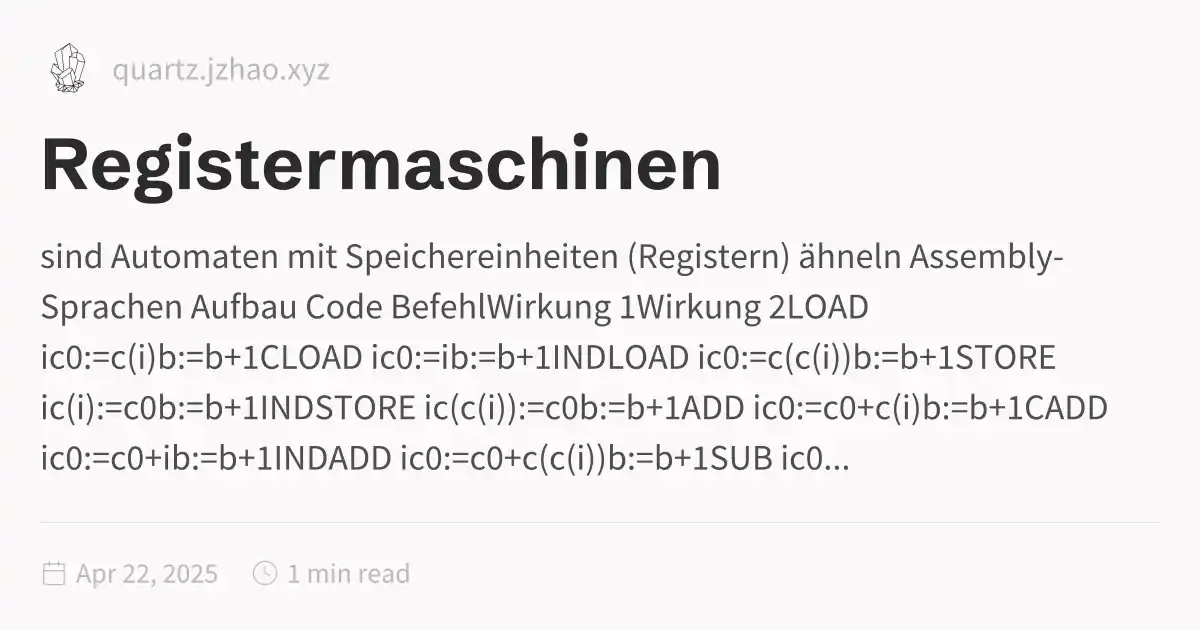
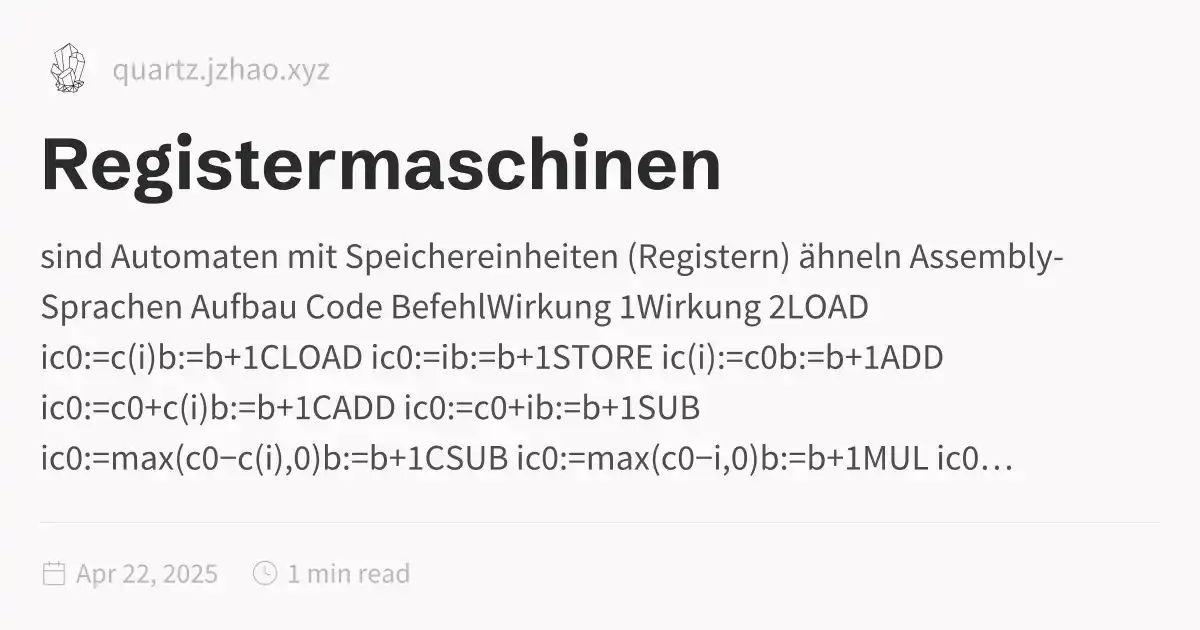
update

Changed region(s): [[0.0617, 0.5429, 0.925, 0.754]]

diff --git a/Themen.html b/Themen.html
@@ -116,7 +116,7 @@ pre:hover > .expand-button {
   padding: 0 12px;
   font-size: 14px;
 }
[2 lines of base64/hex data omitted]
 <h2 id="theoretische-informatik">Theoretische Informatik<a role="anchor" aria-hidden="true" tabindex="-1" data-no-popover="true" href="#theoretische-informatik" class="internal"><svg width="18" height="18" viewBox="0 0 24 24" fill="none" stroke="currentColor" stroke-width="2" stroke-linecap="round" stroke-linejoin="round"><path d="M10 13a5 5 0 0 0 7.54.54l3-3a5 5 0 0 0-7.07-7.07l-1.72 1.71"></path><path d="M14 11a5 5 0 0 0-7.54-.54l-3 3a5 5 0 0 0 7.07 7.07l1.71-1.71"></path></svg></a></h2>
 <ul>
 <li><a href="./Theoretische-Informatik/Registermaschinen" class="internal" data-slug="Theoretische-Informatik/Registermaschinen">Registermaschinen</a></li>
@@ -142,6 +142,11 @@ pre:hover > .expand-button {
 <ul>
 <li><a href="./Angewandte-Informatik/Kryptografie" class="internal" data-slug="Angewandte-Informatik/Kryptografie">Kryptografie</a></li>
 <li><a href="./Angewandte-Informatik/Datenbanken" class="internal" data-slug="Angewandte-Informatik/Datenbanken">Datenbanken</a></li>
+</ul>
+<h3 id="contributors">Contributors<a role="anchor" aria-hidden="true" tabindex="-1" data-no-popover="true" href="#contributors" class="internal"><svg width="18" height="18" viewBox="0 0 24 24" fill="none" stroke="currentColor" stroke-width="2" stroke-linecap="round" stroke-linejoin="round"><path d="M10 13a5 5 0 0 0 7.54.54l3-3a5 5 0 0 0-7.07-7.07l-1.72 1.71"></path><path d="M14 11a5 5 0 0 0-7.54-.54l-3 3a5 5 0 0 0 7.07 7.07l1.71-1.71"></path></svg></a></h3>
+<ul>
+<li>Alex (Content)</li>
+<li>Nils  (Bug-Reports)</li>
 </ul></article><hr/><div class="page-footer"></div></div><div class="right sidebar"><div class="graph"><h3>Graph View</h3><div class="graph-outer"><div class="graph-container" data-cfg="{&quot;drag&quot;:true,&quot;zoom&quot;:true,&quot;depth&quot;:1,&quot;scale&quot;:1.1,&quot;repelForce&quot;:0.5,&quot;centerForce&quot;:0.3,&quot;linkDistance&quot;:30,&quot;fontSize&quot;:0.6,&quot;opacityScale&quot;:1,&quot;showTags&quot;:true,&quot;removeTags&quot;:[],&quot;focusOnHover&quot;:false,&quot;enableRadial&quot;:false}"></div><button class="global-graph-icon" aria-label="Global Graph"><svg version="1.1" xmlns="http://www.w3.org/2000/svg" xmlns:xlink="http://www.w3.org/1999/xlink" x="0px" y="0px" viewBox="0 0 55 55" fill="currentColor" xml:space="preserve"><path d="M49,0c-3.309,0-6,2.691-6,6c0,1.035,0.263,2.009,0.726,2.86l-9.829,9.829C32.542,17.634,30.846,17,29,17
                 s-3.542,0.634-4.898,1.688l-7.669-7.669C16.785,10.424,17,9.74,17,9c0-2.206-1.794-4-4-4S9,6.794,9,9s1.794,4,4,4
                 c0.74,0,1.424-0.215,2.019-0.567l7.669,7.669C21.634,21.458,21,23.154,21,25s0.634,3.542,1.688,4.897L10.024,42.562
@@ -152,6 +157,6 @@ pre:hover > .expand-button {
                 C46.042,11.405,47.451,12,49,12c3.309,0,6-2.691,6-6S52.309,0,49,0z M11,9c0-1.103,0.897-2,2-2s2,0.897,2,2s-0.897,2-2,2
                 S11,10.103,11,9z M6,51c-2.206,0-4-1.794-4-4s1.794-4,4-4s4,1.794,4,4S8.206,51,6,51z M33,49c0,2.206-1.794,4-4,4s-4-1.794-4-4
                 s1.794-4,4-4S33,46.794,33,49z M29,31c-3.309,0-6-2.691-6-6s2.691-6,6-6s6,2.691,6,6S32.309,31,29,31z M47,41c0,1.103-0.897,2-2,2
-                s-2-0.897-2-2s0.897-2,2-2S47,39.897,47,41z M49,10c-2.206,0-4-1.794-4-4s1.794-4,4-4s4,1.794,4,4S51.206,10,49,10z"></path></svg></button></div><div class="global-graph-outer"><div class="global-graph-container" data-cfg="{&quot;drag&quot;:true,&quot;zoom&quot;:true,&quot;depth&quot;:-1,&quot;scale&quot;:0.9,&quot;repelForce&quot;:0.5,&quot;centerForce&quot;:0.2,&quot;linkDistance&quot;:30,&quot;fontSize&quot;:0.6,&quot;opacityScale&quot;:1,&quot;showTags&quot;:true,&quot;removeTags&quot;:[],&quot;focusOnHover&quot;:true,&quot;enableRadial&quot;:true}"></div></div></div><div class="toc desktop-only"><button type="button" class="toc-header" aria-controls="toc-content" aria-expanded="true"><h3>Table of Contents</h3><svg xmlns="http://www.w3.org/2000/svg" width="24" height="24" viewBox="0 0 24 24" fill="none" stroke="currentColor" stroke-width="2" stroke-linecap="round" stroke-linejoin="round" class="fold"><polyline points="6 9 12 15 18 9"></polyline></svg></button><ul class="toc-content overflow" id="list-1"><li class="depth-0"><a href="#theoretische-informatik" data-for="theoretische-informatik">Theoretische Informatik</a></li><li class="depth-0"><a href="#technische-informatik" data-for="technische-informatik">Technische Informatik</a></li><li class="depth-0"><a href="#praktische-informatik" data-for="praktische-informatik">Praktische Informatik</a></li><li class="depth-0"><a href="#angewandte-informatik" data-for="angewandte-informatik">Angewandte Informatik</a></li><li class="overflow-end"></li></ul></div></div><footer class><p>Created with <a href="https://quartz.jzhao.xyz/">Quartz v4.5.0</a> © 2025</p><ul><li><a href="https://github.com/jackyzha0/quartz">GitHub</a></li><li><a href="https://discord.gg/cRFFHYye7t">Discord Community</a></li></ul></footer></div></div></body><script type="application/javascript">function o(){let t=this.parentElement;t.classList.toggle("is-collapsed");let e=t.classList.contains("is-collapsed")?this.scrollHeight:t.scrollHeight;t.style.maxHeight=e+"px";let c=t,l=t.parentElement;for(;l;){if(!l.classList.contains("callout"))return;let i=l.classList.contains("is-collapsed")?l.scrollHeight:l.scrollHeight+c.scrollHeight;l.style.maxHeight=i+"px",c=l,l=l.parentElement}}function n(){let t=document.getElementsByClassName("callout is-collapsible");for(let s of t){let e=s.firstElementChild;if(!e)continue;e.addEventListener("click",o),window.addCleanup(()=>e.removeEventListener("click",o));let l=s.classList.contains("is-collapsed")?e.scrollHeight:s.scrollHeight;s.style.maxHeight=l+"px"}}document.addEventListener("nav",n);
+                s-2-0.897-2-2s0.897-2,2-2S47,39.897,47,41z M49,10c-2.206,0-4-1.794-4-4s1.794-4,4-4s4,1.794,4,4S51.206,10,49,10z"></path></svg></button></div><div class="global-graph-outer"><div class="global-graph-container" data-cfg="{&quot;drag&quot;:true,&quot;zoom&quot;:true,&quot;depth&quot;:-1,&quot;scale&quot;:0.9,&quot;repelForce&quot;:0.5,&quot;centerForce&quot;:0.2,&quot;linkDistance&quot;:30,&quot;fontSize&quot;:0.6,&quot;opacityScale&quot;:1,&quot;showTags&quot;:true,&quot;removeTags&quot;:[],&quot;focusOnHover&quot;:true,&quot;enableRadial&quot;:true}"></div></div></div><div class="toc desktop-only"><button type="button" class="toc-header" aria-controls="toc-content" aria-expanded="true"><h3>Table of Contents</h3><svg xmlns="http://www.w3.org/2000/svg" width="24" height="24" viewBox="0 0 24 24" fill="none" stroke="currentColor" stroke-width="2" stroke-linecap="round" stroke-linejoin="round" class="fold"><polyline points="6 9 12 15 18 9"></polyline></svg></button><ul class="toc-content overflow" id="list-1"><li class="depth-0"><a href="#theoretische-informatik" data-for="theoretische-informatik">Theoretische Informatik</a></li><li class="depth-0"><a href="#technische-informatik" data-for="technische-informatik">Technische Informatik</a></li><li class="depth-0"><a href="#praktische-informatik" data-for="praktische-informatik">Praktische Informatik</a></li><li class="depth-0"><a href="#angewandte-informatik" data-for="angewandte-informatik">Angewandte Informatik</a></li><li class="depth-1"><a href="#contributors" data-for="contributors">Contributors</a></li><li class="overflow-end"></li></ul></div></div><footer class><p>Created with <a href="https://quartz.jzhao.xyz/">Quartz v4.5.0</a> © 2025</p><ul><li><a href="https://github.com/jackyzha0/quartz">GitHub</a></li><li><a href="https://discord.gg/cRFFHYye7t">Discord Community</a></li></ul></footer></div></div></body><script type="application/javascript">function o(){let t=this.parentElement;t.classList.toggle("is-collapsed");let e=t.classList.contains("is-collapsed")?this.scrollHeight:t.scrollHeight;t.style.maxHeight=e+"px";let c=t,l=t.parentElement;for(;l;){if(!l.classList.contains("callout"))return;let i=l.classList.contains("is-collapsed")?l.scrollHeight:l.scrollHeight+c.scrollHeight;l.style.maxHeight=i+"px",c=l,l=l.parentElement}}function n(){let t=document.getElementsByClassName("callout is-collapsible");for(let s of t){let e=s.firstElementChild;if(!e)continue;e.addEventListener("click",o),window.addCleanup(()=>e.removeEventListener("click",o));let l=s.classList.contains("is-collapsed")?e.scrollHeight:s.scrollHeight;s.style.maxHeight=l+"px"}}document.addEventListener("nav",n);
 </script><script type="module">function f(i,e){if(!i)return;function r(o){o.target===this&&(o.preventDefault(),o.stopPropagation(),e())}function t(o){o.key.startsWith("Esc")&&(o.preventDefault(),e())}i?.addEventListener("click",r),window.addCleanup(()=>i?.removeEventListener("click",r)),document.addEventListener("keydown",t),window.addCleanup(()=>document.removeEventListener("keydown",t))}function y(i){for(;i.firstChild;)i.removeChild(i.firstChild)}var h=class{constructor(e,r){this.container=e;this.content=r;this.setupEventListeners(),this.setupNavigationControls(),this.resetTransform()}isDragging=!1;startPan={x:0,y:0};currentPan={x:0,y:0};scale=1;MIN_SCALE=.5;MAX_SCALE=3;cleanups=[];setupEventListeners(){let e=this.onMouseDown.bind(this),r=this.onMouseMove.bind(this),t=this.onMouseUp.bind(this),o=this.resetTransform.bind(this);this.container.addEventListener("mousedown",e),document.addEventListener("mousemove",r),document.addEventListener("mouseup",t),window.addEventListener("resize",o),this.cleanups.push(()=>this.container.removeEventListener("mousedown",e),()=>document.removeEventListener("mousemove",r),()=>document.removeEventListener("mouseup",t),()=>window.removeEventListener("resize",o))}cleanup(){for(let e of this.cleanups)e()}setupNavigationControls(){let e=document.createElement("div");e.className="mermaid-controls";let r=this.createButton("+",()=>this.zoom(.1)),t=this.createButton("-",()=>this.zoom(-.1)),o=this.createButton("Reset",()=>this.resetTransform());e.appendChild(t),e.appendChild(o),e.appendChild(r),this.container.appendChild(e)}createButton(e,r){let t=document.createElement("button");return t.textContent=e,t.className="mermaid-control-button",t.addEventListener("click",r),window.addCleanup(()=>t.removeEventListener("click",r)),t}onMouseDown(e){e.button===0&&(this.isDragging=!0,this.startPan={x:e.clientX-this.currentPan.x,y:e.clientY-this.currentPan.y},this.container.style.cursor="grabbing")}onMouseMove(e){this.isDragging&&(e.preventDefault(),this.currentPan={x:e.clientX-this.startPan.x,y:e.clientY-this.startPan.y},this.updateTransform())}onMouseUp(){this.isDragging=!1,this.container.style.cursor="grab"}zoom(e){let r=Math.min(Math.max(this.scale+e,this.MIN_SCALE),this.MAX_SCALE),t=this.content.getBoundingClientRect(),o=t.width/2,n=t.height/2,c=r-this.scale;this.currentPan.x-=o*c,this.currentPan.y-=n*c,this.scale=r,this.updateTransform()}updateTransform(){this.content.style.transform=`translate(${this.currentPan.x}px, ${this.currentPan.y}px) scale(${this.scale})`}resetTransform(){this.scale=1;let e=this.content.querySelector("svg");this.currentPan={x:e.getBoundingClientRect().width/2,y:e.getBoundingClientRect().height/2},this.updateTransform()}},C=["--secondary","--tertiary","--gray","--light","--lightgray","--highlight","--dark","--darkgray","--codeFont"],E;document.addEventListener("nav",async()=>{let e=document.querySelector(".center").querySelectorAll("code.mermaid");if(e.length===0)return;E||=await import("https://cdnjs.cloudflare.com/ajax/libs/mermaid/11.4.0/mermaid.esm.min.mjs");let r=E.default,t=new WeakMap;for(let n of e)t.set(n,n.innerText);async function o(){for(let s of e){s.removeAttribute("data-processed");let a=t.get(s);a&&(s.innerHTML=a)}let n=C.reduce((s,a)=>(s[a]=window.getComputedStyle(document.documentElement).getPropertyValue(a),s),{}),c=document.documentElement.getAttribute("saved-theme")==="dark";r.initialize({startOnLoad:!1,securityLevel:"loose",theme:c?"dark":"base",themeVariables:{fontFamily:n["--codeFont"],primaryColor:n["--light"],primaryTextColor:n["--darkgray"],primaryBorderColor:n["--tertiary"],lineColor:n["--darkgray"],secondaryColor:n["--secondary"],tertiaryColor:n["--tertiary"],clusterBkg:n["--light"],edgeLabelBackground:n["--highlight"]}}),await r.run({nodes:e})}await o(),document.addEventListener("themechange",o),window.addCleanup(()=>document.removeEventListener("themechange",o));for(let n=0;n<e.length;n++){let v=function(){let g=l.querySelector("#mermaid-space"),m=l.querySelector(".mermaid-content");if(!m)return;y(m);let w=c.querySelector("svg").cloneNode(!0);m.appendChild(w),l.classList.add("active"),g.style.cursor="grab",u=new h(g,m)},M=function(){l.classList.remove("active"),u?.cleanup(),u=null},c=e[n],s=c.parentElement,a=s.querySelector(".clipboard-button"),d=s.querySelector(".expand-button"),p=window.getComputedStyle(a),L=a.offsetWidth+parseFloat(p.marginLeft||"0")+parseFloat(p.marginRight||"0");d.style.right=`calc(${L}px + 0.3rem)`,s.prepend(d);let l=s.querySelector("#mermaid-container");if(!l)return;let u=null;d.addEventListener("click",v),f(l,M),window.addCleanup(()=>{u?.cleanup(),d.removeEventListener("click",v)})}});
 </script><script src="https://cdn.jsdelivr.net/npm/katex@0.16.11/dist/contrib/copy-tex.min.js" type="application/javascript"></script><script src="./postscript.js" type="module"></script></html>

diff --git a/index.html b/index.html
@@ -116,7 +116,7 @@ pre:hover > .expand-button {
   padding: 0 12px;
   font-size: 14px;
 }
[2 lines of base64/hex data omitted]
 <h2 id="theoretische-informatik">Theoretische Informatik<a role="anchor" aria-hidden="true" tabindex="-1" data-no-popover="true" href="#theoretische-informatik" class="internal"><svg width="18" height="18" viewBox="0 0 24 24" fill="none" stroke="currentColor" stroke-width="2" stroke-linecap="round" stroke-linejoin="round"><path d="M10 13a5 5 0 0 0 7.54.54l3-3a5 5 0 0 0-7.07-7.07l-1.72 1.71"></path><path d="M14 11a5 5 0 0 0-7.54-.54l-3 3a5 5 0 0 0 7.07 7.07l1.71-1.71"></path></svg></a></h2>
 <ul>
 <li><a href="./Theoretische-Informatik/Registermaschinen" class="internal" data-slug="Theoretische-Informatik/Registermaschinen">Registermaschinen</a></li>
@@ -142,6 +142,11 @@ pre:hover > .expand-button {
 <ul>
 <li><a href="./Angewandte-Informatik/Kryptografie" class="internal" data-slug="Angewandte-Informatik/Kryptografie">Kryptografie</a></li>
 <li><a href="./Angewandte-Informatik/Datenbanken" class="internal" data-slug="Angewandte-Informatik/Datenbanken">Datenbanken</a></li>
+</ul>
+<h3 id="contributors">Contributors<a role="anchor" aria-hidden="true" tabindex="-1" data-no-popover="true" href="#contributors" class="internal"><svg width="18" height="18" viewBox="0 0 24 24" fill="none" stroke="currentColor" stroke-width="2" stroke-linecap="round" stroke-linejoin="round"><path d="M10 13a5 5 0 0 0 7.54.54l3-3a5 5 0 0 0-7.07-7.07l-1.72 1.71"></path><path d="M14 11a5 5 0 0 0-7.54-.54l-3 3a5 5 0 0 0 7.07 7.07l1.71-1.71"></path></svg></a></h3>
+<ul>
+<li>Alex (Content)</li>
+<li>Nils  (Bug-Reports)</li>
 </ul></article><hr/><div class="page-footer"></div></div><div class="right sidebar"><div class="graph"><h3>Graph View</h3><div class="graph-outer"><div class="graph-container" data-cfg="{&quot;drag&quot;:true,&quot;zoom&quot;:true,&quot;depth&quot;:1,&quot;scale&quot;:1.1,&quot;repelForce&quot;:0.5,&quot;centerForce&quot;:0.3,&quot;linkDistance&quot;:30,&quot;fontSize&quot;:0.6,&quot;opacityScale&quot;:1,&quot;showTags&quot;:true,&quot;removeTags&quot;:[],&quot;focusOnHover&quot;:false,&quot;enableRadial&quot;:false}"></div><button class="global-graph-icon" aria-label="Global Graph"><svg version="1.1" xmlns="http://www.w3.org/2000/svg" xmlns:xlink="http://www.w3.org/1999/xlink" x="0px" y="0px" viewBox="0 0 55 55" fill="currentColor" xml:space="preserve"><path d="M49,0c-3.309,0-6,2.691-6,6c0,1.035,0.263,2.009,0.726,2.86l-9.829,9.829C32.542,17.634,30.846,17,29,17
                 s-3.542,0.634-4.898,1.688l-7.669-7.669C16.785,10.424,17,9.74,17,9c0-2.206-1.794-4-4-4S9,6.794,9,9s1.794,4,4,4
                 c0.74,0,1.424-0.215,2.019-0.567l7.669,7.669C21.634,21.458,21,23.154,21,25s0.634,3.542,1.688,4.897L10.024,42.562
@@ -152,6 +157,6 @@ pre:hover > .expand-button {
                 C46.042,11.405,47.451,12,49,12c3.309,0,6-2.691,6-6S52.309,0,49,0z M11,9c0-1.103,0.897-2,2-2s2,0.897,2,2s-0.897,2-2,2
                 S11,10.103,11,9z M6,51c-2.206,0-4-1.794-4-4s1.794-4,4-4s4,1.794,4,4S8.206,51,6,51z M33,49c0,2.206-1.794,4-4,4s-4-1.794-4-4
                 s1.794-4,4-4S33,46.794,33,49z M29,31c-3.309,0-6-2.691-6-6s2.691-6,6-6s6,2.691,6,6S32.309,31,29,31z M47,41c0,1.103-0.897,2-2,2
-                s-2-0.897-2-2s0.897-2,2-2S47,39.897,47,41z M49,10c-2.206,0-4-1.794-4-4s1.794-4,4-4s4,1.794,4,4S51.206,10,49,10z"></path></svg></button></div><div class="global-graph-outer"><div class="global-graph-container" data-cfg="{&quot;drag&quot;:true,&quot;zoom&quot;:true,&quot;depth&quot;:-1,&quot;scale&quot;:0.9,&quot;repelForce&quot;:0.5,&quot;centerForce&quot;:0.2,&quot;linkDistance&quot;:30,&quot;fontSize&quot;:0.6,&quot;opacityScale&quot;:1,&quot;showTags&quot;:true,&quot;removeTags&quot;:[],&quot;focusOnHover&quot;:true,&quot;enableRadial&quot;:true}"></div></div></div><div class="toc desktop-only"><button type="button" class="toc-header" aria-controls="toc-content" aria-expanded="true"><h3>Table of Contents</h3><svg xmlns="http://www.w3.org/2000/svg" width="24" height="24" viewBox="0 0 24 24" fill="none" stroke="currentColor" stroke-width="2" stroke-linecap="round" stroke-linejoin="round" class="fold"><polyline points="6 9 12 15 18 9"></polyline></svg></button><ul class="toc-content overflow" id="list-1"><li class="depth-0"><a href="#theoretische-informatik" data-for="theoretische-informatik">Theoretische Informatik</a></li><li class="depth-0"><a href="#technische-informatik" data-for="technische-informatik">Technische Informatik</a></li><li class="depth-0"><a href="#praktische-informatik" data-for="praktische-informatik">Praktische Informatik</a></li><li class="depth-0"><a href="#angewandte-informatik" data-for="angewandte-informatik">Angewandte Informatik</a></li><li class="overflow-end"></li></ul></div></div><footer class><p>Created with <a href="https://quartz.jzhao.xyz/">Quartz v4.5.0</a> © 2025</p><ul><li><a href="https://github.com/jackyzha0/quartz">GitHub</a></li><li><a href="https://discord.gg/cRFFHYye7t">Discord Community</a></li></ul></footer></div></div></body><script type="application/javascript">function o(){let t=this.parentElement;t.classList.toggle("is-collapsed");let e=t.classList.contains("is-collapsed")?this.scrollHeight:t.scrollHeight;t.style.maxHeight=e+"px";let c=t,l=t.parentElement;for(;l;){if(!l.classList.contains("callout"))return;let i=l.classList.contains("is-collapsed")?l.scrollHeight:l.scrollHeight+c.scrollHeight;l.style.maxHeight=i+"px",c=l,l=l.parentElement}}function n(){let t=document.getElementsByClassName("callout is-collapsible");for(let s of t){let e=s.firstElementChild;if(!e)continue;e.addEventListener("click",o),window.addCleanup(()=>e.removeEventListener("click",o));let l=s.classList.contains("is-collapsed")?e.scrollHeight:s.scrollHeight;s.style.maxHeight=l+"px"}}document.addEventListener("nav",n);
+                s-2-0.897-2-2s0.897-2,2-2S47,39.897,47,41z M49,10c-2.206,0-4-1.794-4-4s1.794-4,4-4s4,1.794,4,4S51.206,10,49,10z"></path></svg></button></div><div class="global-graph-outer"><div class="global-graph-container" data-cfg="{&quot;drag&quot;:true,&quot;zoom&quot;:true,&quot;depth&quot;:-1,&quot;scale&quot;:0.9,&quot;repelForce&quot;:0.5,&quot;centerForce&quot;:0.2,&quot;linkDistance&quot;:30,&quot;fontSize&quot;:0.6,&quot;opacityScale&quot;:1,&quot;showTags&quot;:true,&quot;removeTags&quot;:[],&quot;focusOnHover&quot;:true,&quot;enableRadial&quot;:true}"></div></div></div><div class="toc desktop-only"><button type="button" class="toc-header" aria-controls="toc-content" aria-expanded="true"><h3>Table of Contents</h3><svg xmlns="http://www.w3.org/2000/svg" width="24" height="24" viewBox="0 0 24 24" fill="none" stroke="currentColor" stroke-width="2" stroke-linecap="round" stroke-linejoin="round" class="fold"><polyline points="6 9 12 15 18 9"></polyline></svg></button><ul class="toc-content overflow" id="list-1"><li class="depth-0"><a href="#theoretische-informatik" data-for="theoretische-informatik">Theoretische Informatik</a></li><li class="depth-0"><a href="#technische-informatik" data-for="technische-informatik">Technische Informatik</a></li><li class="depth-0"><a href="#praktische-informatik" data-for="praktische-informatik">Praktische Informatik</a></li><li class="depth-0"><a href="#angewandte-informatik" data-for="angewandte-informatik">Angewandte Informatik</a></li><li class="depth-1"><a href="#contributors" data-for="contributors">Contributors</a></li><li class="overflow-end"></li></ul></div></div><footer class><p>Created with <a href="https://quartz.jzhao.xyz/">Quartz v4.5.0</a> © 2025</p><ul><li><a href="https://github.com/jackyzha0/quartz">GitHub</a></li><li><a href="https://discord.gg/cRFFHYye7t">Discord Community</a></li></ul></footer></div></div></body><script type="application/javascript">function o(){let t=this.parentElement;t.classList.toggle("is-collapsed");let e=t.classList.contains("is-collapsed")?this.scrollHeight:t.scrollHeight;t.style.maxHeight=e+"px";let c=t,l=t.parentElement;for(;l;){if(!l.classList.contains("callout"))return;let i=l.classList.contains("is-collapsed")?l.scrollHeight:l.scrollHeight+c.scrollHeight;l.style.maxHeight=i+"px",c=l,l=l.parentElement}}function n(){let t=document.getElementsByClassName("callout is-collapsible");for(let s of t){let e=s.firstElementChild;if(!e)continue;e.addEventListener("click",o),window.addCleanup(()=>e.removeEventListener("click",o));let l=s.classList.contains("is-collapsed")?e.scrollHeight:s.scrollHeight;s.style.maxHeight=l+"px"}}document.addEventListener("nav",n);
 </script><script type="module">function f(i,e){if(!i)return;function r(o){o.target===this&&(o.preventDefault(),o.stopPropagation(),e())}function t(o){o.key.startsWith("Esc")&&(o.preventDefault(),e())}i?.addEventListener("click",r),window.addCleanup(()=>i?.removeEventListener("click",r)),document.addEventListener("keydown",t),window.addCleanup(()=>document.removeEventListener("keydown",t))}function y(i){for(;i.firstChild;)i.removeChild(i.firstChild)}var h=class{constructor(e,r){this.container=e;this.content=r;this.setupEventListeners(),this.setupNavigationControls(),this.resetTransform()}isDragging=!1;startPan={x:0,y:0};currentPan={x:0,y:0};scale=1;MIN_SCALE=.5;MAX_SCALE=3;cleanups=[];setupEventListeners(){let e=this.onMouseDown.bind(this),r=this.onMouseMove.bind(this),t=this.onMouseUp.bind(this),o=this.resetTransform.bind(this);this.container.addEventListener("mousedown",e),document.addEventListener("mousemove",r),document.addEventListener("mouseup",t),window.addEventListener("resize",o),this.cleanups.push(()=>this.container.removeEventListener("mousedown",e),()=>document.removeEventListener("mousemove",r),()=>document.removeEventListener("mouseup",t),()=>window.removeEventListener("resize",o))}cleanup(){for(let e of this.cleanups)e()}setupNavigationControls(){let e=document.createElement("div");e.className="mermaid-controls";let r=this.createButton("+",()=>this.zoom(.1)),t=this.createButton("-",()=>this.zoom(-.1)),o=this.createButton("Reset",()=>this.resetTransform());e.appendChild(t),e.appendChild(o),e.appendChild(r),this.container.appendChild(e)}createButton(e,r){let t=document.createElement("button");return t.textContent=e,t.className="mermaid-control-button",t.addEventListener("click",r),window.addCleanup(()=>t.removeEventListener("click",r)),t}onMouseDown(e){e.button===0&&(this.isDragging=!0,this.startPan={x:e.clientX-this.currentPan.x,y:e.clientY-this.currentPan.y},this.container.style.cursor="grabbing")}onMouseMove(e){this.isDragging&&(e.preventDefault(),this.currentPan={x:e.clientX-this.startPan.x,y:e.clientY-this.startPan.y},this.updateTransform())}onMouseUp(){this.isDragging=!1,this.container.style.cursor="grab"}zoom(e){let r=Math.min(Math.max(this.scale+e,this.MIN_SCALE),this.MAX_SCALE),t=this.content.getBoundingClientRect(),o=t.width/2,n=t.height/2,c=r-this.scale;this.currentPan.x-=o*c,this.currentPan.y-=n*c,this.scale=r,this.updateTransform()}updateTransform(){this.content.style.transform=`translate(${this.currentPan.x}px, ${this.currentPan.y}px) scale(${this.scale})`}resetTransform(){this.scale=1;let e=this.content.querySelector("svg");this.currentPan={x:e.getBoundingClientRect().width/2,y:e.getBoundingClientRect().height/2},this.updateTransform()}},C=["--secondary","--tertiary","--gray","--light","--lightgray","--highlight","--dark","--darkgray","--codeFont"],E;document.addEventListener("nav",async()=>{let e=document.querySelector(".center").querySelectorAll("code.mermaid");if(e.length===0)return;E||=await import("https://cdnjs.cloudflare.com/ajax/libs/mermaid/11.4.0/mermaid.esm.min.mjs");let r=E.default,t=new WeakMap;for(let n of e)t.set(n,n.innerText);async function o(){for(let s of e){s.removeAttribute("data-processed");let a=t.get(s);a&&(s.innerHTML=a)}let n=C.reduce((s,a)=>(s[a]=window.getComputedStyle(document.documentElement).getPropertyValue(a),s),{}),c=document.documentElement.getAttribute("saved-theme")==="dark";r.initialize({startOnLoad:!1,securityLevel:"loose",theme:c?"dark":"base",themeVariables:{fontFamily:n["--codeFont"],primaryColor:n["--light"],primaryTextColor:n["--darkgray"],primaryBorderColor:n["--tertiary"],lineColor:n["--darkgray"],secondaryColor:n["--secondary"],tertiaryColor:n["--tertiary"],clusterBkg:n["--light"],edgeLabelBackground:n["--highlight"]}}),await r.run({nodes:e})}await o(),document.addEventListener("themechange",o),window.addCleanup(()=>document.removeEventListener("themechange",o));for(let n=0;n<e.length;n++){let v=function(){let g=l.querySelector("#mermaid-space"),m=l.querySelector(".mermaid-content");if(!m)return;y(m);let w=c.querySelector("svg").cloneNode(!0);m.appendChild(w),l.classList.add("active"),g.style.cursor="grab",u=new h(g,m)},M=function(){l.classList.remove("active"),u?.cleanup(),u=null},c=e[n],s=c.parentElement,a=s.querySelector(".clipboard-button"),d=s.querySelector(".expand-button"),p=window.getComputedStyle(a),L=a.offsetWidth+parseFloat(p.marginLeft||"0")+parseFloat(p.marginRight||"0");d.style.right=`calc(${L}px + 0.3rem)`,s.prepend(d);let l=s.querySelector("#mermaid-container");if(!l)return;let u=null;d.addEventListener("click",v),f(l,M),window.addCleanup(()=>{u?.cleanup(),d.removeEventListener("click",v)})}});
 </script><script src="https://cdn.jsdelivr.net/npm/katex@0.16.11/dist/contrib/copy-tex.min.js" type="application/javascript"></script><script src="./postscript.js" type="module"></script></html>

diff --git a/Theoretische-Informatik/index.html b/Theoretische-Informatik/index.html
@@ -116,6 +116,6 @@ pre:hover > .expand-button {
   padding: 0 12px;
   font-size: 14px;
 }
[2 lines of base64/hex data omitted]
 </script><script type="module">function f(i,e){if(!i)return;function r(o){o.target===this&&(o.preventDefault(),o.stopPropagation(),e())}function t(o){o.key.startsWith("Esc")&&(o.preventDefault(),e())}i?.addEventListener("click",r),window.addCleanup(()=>i?.removeEventListener("click",r)),document.addEventListener("keydown",t),window.addCleanup(()=>document.removeEventListener("keydown",t))}function y(i){for(;i.firstChild;)i.removeChild(i.firstChild)}var h=class{constructor(e,r){this.container=e;this.content=r;this.setupEventListeners(),this.setupNavigationControls(),this.resetTransform()}isDragging=!1;startPan={x:0,y:0};currentPan={x:0,y:0};scale=1;MIN_SCALE=.5;MAX_SCALE=3;cleanups=[];setupEventListeners(){let e=this.onMouseDown.bind(this),r=this.onMouseMove.bind(this),t=this.onMouseUp.bind(this),o=this.resetTransform.bind(this);this.container.addEventListener("mousedown",e),document.addEventListener("mousemove",r),document.addEventListener("mouseup",t),window.addEventListener("resize",o),this.cleanups.push(()=>this.container.removeEventListener("mousedown",e),()=>document.removeEventListener("mousemove",r),()=>document.removeEventListener("mouseup",t),()=>window.removeEventListener("resize",o))}cleanup(){for(let e of this.cleanups)e()}setupNavigationControls(){let e=document.createElement("div");e.className="mermaid-controls";let r=this.createButton("+",()=>this.zoom(.1)),t=this.createButton("-",()=>this.zoom(-.1)),o=this.createButton("Reset",()=>this.resetTransform());e.appendChild(t),e.appendChild(o),e.appendChild(r),this.container.appendChild(e)}createButton(e,r){let t=document.createElement("button");return t.textContent=e,t.className="mermaid-control-button",t.addEventListener("click",r),window.addCleanup(()=>t.removeEventListener("click",r)),t}onMouseDown(e){e.button===0&&(this.isDragging=!0,this.startPan={x:e.clientX-this.currentPan.x,y:e.clientY-this.currentPan.y},this.container.style.cursor="grabbing")}onMouseMove(e){this.isDragging&&(e.preventDefault(),this.currentPan={x:e.clientX-this.startPan.x,y:e.clientY-this.startPan.y},this.updateTransform())}onMouseUp(){this.isDragging=!1,this.container.style.cursor="grab"}zoom(e){let r=Math.min(Math.max(this.scale+e,this.MIN_SCALE),this.MAX_SCALE),t=this.content.getBoundingClientRect(),o=t.width/2,n=t.height/2,c=r-this.scale;this.currentPan.x-=o*c,this.currentPan.y-=n*c,this.scale=r,this.updateTransform()}updateTransform(){this.content.style.transform=`translate(${this.currentPan.x}px, ${this.currentPan.y}px) scale(${this.scale})`}resetTransform(){this.scale=1;let e=this.content.querySelector("svg");this.currentPan={x:e.getBoundingClientRect().width/2,y:e.getBoundingClientRect().height/2},this.updateTransform()}},C=["--secondary","--tertiary","--gray","--light","--lightgray","--highlight","--dark","--darkgray","--codeFont"],E;document.addEventListener("nav",async()=>{let e=document.querySelector(".center").querySelectorAll("code.mermaid");if(e.length===0)return;E||=await import("https://cdnjs.cloudflare.com/ajax/libs/mermaid/11.4.0/mermaid.esm.min.mjs");let r=E.default,t=new WeakMap;for(let n of e)t.set(n,n.innerText);async function o(){for(let s of e){s.removeAttribute("data-processed");let a=t.get(s);a&&(s.innerHTML=a)}let n=C.reduce((s,a)=>(s[a]=window.getComputedStyle(document.documentElement).getPropertyValue(a),s),{}),c=document.documentElement.getAttribute("saved-theme")==="dark";r.initialize({startOnLoad:!1,securityLevel:"loose",theme:c?"dark":"base",themeVariables:{fontFamily:n["--codeFont"],primaryColor:n["--light"],primaryTextColor:n["--darkgray"],primaryBorderColor:n["--tertiary"],lineColor:n["--darkgray"],secondaryColor:n["--secondary"],tertiaryColor:n["--tertiary"],clusterBkg:n["--light"],edgeLabelBackground:n["--highlight"]}}),await r.run({nodes:e})}await o(),document.addEventListener("themechange",o),window.addCleanup(()=>document.removeEventListener("themechange",o));for(let n=0;n<e.length;n++){let v=function(){let g=l.querySelector("#mermaid-space"),m=l.querySelector(".mermaid-content");if(!m)return;y(m);let w=c.querySelector("svg").cloneNode(!0);m.appendChild(w),l.classList.add("active"),g.style.cursor="grab",u=new h(g,m)},M=function(){l.classList.remove("active"),u?.cleanup(),u=null},c=e[n],s=c.parentElement,a=s.querySelector(".clipboard-button"),d=s.querySelector(".expand-button"),p=window.getComputedStyle(a),L=a.offsetWidth+parseFloat(p.marginLeft||"0")+parseFloat(p.marginRight||"0");d.style.right=`calc(${L}px + 0.3rem)`,s.prepend(d);let l=s.querySelector("#mermaid-container");if(!l)return;let u=null;d.addEventListener("click",v),f(l,M),window.addCleanup(()=>{u?.cleanup(),d.removeEventListener("click",v)})}});
 </script><script src="https://cdn.jsdelivr.net/npm/katex@0.16.11/dist/contrib/copy-tex.min.js" type="application/javascript"></script><script src="../postscript.js" type="module"></script></html>

diff --git a/Theoretische-Informatik/Registermaschinen.html b/Theoretische-Informatik/Registermaschinen.html
@@ -1,5 +1,5 @@
 <!DOCTYPE html>
-<html lang="en"><head><title>Registermaschinen</title><meta charset="utf-8"/><link rel="preconnect" href="https://fonts.googleapis.com"/><link rel="preconnect" href="https://fonts.gstatic.com"/><link rel="stylesheet" href="https://fonts.googleapis.com/css2?family=Schibsted Grotesk:wght@400;700&amp;family=Source Sans Pro:ital,wght@0,400;0,600;1,400;1,600&amp;family=IBM Plex Mono:wght@400;600&amp;display=swap"/><link rel="preconnect" href="https://cdnjs.cloudflare.com" crossorigin="anonymous"/><meta name="viewport" content="width=device-width, initial-scale=1.0"/><meta name="og:site_name" content="Quartz 4"/><meta property="og:title" content="Registermaschinen"/><meta property="og:type" content="website"/><meta name="twitter:card" content="summary_large_image"/><meta name="twitter:title" content="Registermaschinen"/><meta name="twitter:description" content="sind Automaten mit Speichereinheiten (Registern) ähneln Assembly-Sprachen Aufbau Code BefehlWirkung 1Wirkung 2LOAD ic0:=c(i)b:=b+1CLOAD ic0:=ib:=b+1INDLOAD ic0:=c(c(i))b:=b+1STORE ic(i):=c0b:=b+1INDSTORE ic(c(i)):=c0b:=b+1ADD ic0:=c0+c(i)b:=b+1CADD ic0:=c0+ib:=b+1INDADD ic0:=c0+c(c(i))b:=b+1SUB ic0..."/><meta property="og:description" content="sind Automaten mit Speichereinheiten (Registern) ähneln Assembly-Sprachen Aufbau Code BefehlWirkung 1Wirkung 2LOAD ic0:=c(i)b:=b+1CLOAD ic0:=ib:=b+1INDLOAD ic0:=c(c(i))b:=b+1STORE ic(i):=c0b:=b+1INDSTORE ic(c(i)):=c0b:=b+1ADD ic0:=c0+c(i)b:=b+1CADD ic0:=c0+ib:=b+1INDADD ic0:=c0+c(c(i))b:=b+1SUB ic0..."/><meta property="og:image:alt" content="sind Automaten mit Speichereinheiten (Registern) ähneln Assembly-Sprachen Aufbau Code BefehlWirkung 1Wirkung 2LOAD ic0:=c(i)b:=b+1CLOAD ic0:=ib:=b+1INDLOAD ic0:=c(c(i))b:=b+1STORE ic(i):=c0b:=b+1INDSTORE ic(c(i)):=c0b:=b+1ADD ic0:=c0+c(i)b:=b+1CADD ic0:=c0+ib:=b+1INDADD ic0:=c0+c(c(i))b:=b+1SUB ic0..."/><meta property="twitter:domain" content="quartz.jzhao.xyz"/><meta property="og:url" content="https://quartz.jzhao.xyz/Theoretische-Informatik/Registermaschinen"/><meta property="twitter:url" content="https://quartz.jzhao.xyz/Theoretische-Informatik/Registermaschinen"/><link rel="icon" href="../static/icon.png"/><meta name="description" content="sind Automaten mit Speichereinheiten (Registern) ähneln Assembly-Sprachen Aufbau Code BefehlWirkung 1Wirkung 2LOAD ic0:=c(i)b:=b+1CLOAD ic0:=ib:=b+1INDLOAD ic0:=c(c(i))b:=b+1STORE ic(i):=c0b:=b+1INDSTORE ic(c(i)):=c0b:=b+1ADD ic0:=c0+c(i)b:=b+1CADD ic0:=c0+ib:=b+1INDADD ic0:=c0+c(c(i))b:=b+1SUB ic0..."/><meta name="generator" content="Quartz"/><link href="../index.css" rel="stylesheet" type="text/css" spa-preserve/><style>.expand-button {
+<html lang="en"><head><title>Registermaschinen</title><meta charset="utf-8"/><link rel="preconnect" href="https://fonts.googleapis.com"/><link rel="preconnect" href="https://fonts.gstatic.com"/><link rel="stylesheet" href="https://fonts.googleapis.com/css2?family=Schibsted Grotesk:wght@400;700&amp;family=Source Sans Pro:ital,wght@0,400;0,600;1,400;1,600&amp;family=IBM Plex Mono:wght@400;600&amp;display=swap"/><link rel="preconnect" href="https://cdnjs.cloudflare.com" crossorigin="anonymous"/><meta name="viewport" content="width=device-width, initial-scale=1.0"/><meta name="og:site_name" content="Quartz 4"/><meta property="og:title" content="Registermaschinen"/><meta property="og:type" content="website"/><meta name="twitter:card" content="summary_large_image"/><meta name="twitter:title" content="Registermaschinen"/><meta name="twitter:description" content="sind Automaten mit Speichereinheiten (Registern) ähneln Assembly-Sprachen Aufbau Code BefehlWirkung 1Wirkung 2LOAD ic0:=c(i)b:=b+1CLOAD ic0:=ib:=b+1STORE ic(i):=c0b:=b+1ADD ic0:=c0+c(i)b:=b+1CADD ic0:=c0+ib:=b+1SUB ic0:=max(c0−c(i),0)b:=b+1CSUB ic0:=max(c0−i,0)b:=b+1MUL ic0:=c0*c(i)b:=b+1CMUL ic0:=..."/><meta property="og:description" content="sind Automaten mit Speichereinheiten (Registern) ähneln Assembly-Sprachen Aufbau Code BefehlWirkung 1Wirkung 2LOAD ic0:=c(i)b:=b+1CLOAD ic0:=ib:=b+1STORE ic(i):=c0b:=b+1ADD ic0:=c0+c(i)b:=b+1CADD ic0:=c0+ib:=b+1SUB ic0:=max(c0−c(i),0)b:=b+1CSUB ic0:=max(c0−i,0)b:=b+1MUL ic0:=c0*c(i)b:=b+1CMUL ic0:=..."/><meta property="og:image:alt" content="sind Automaten mit Speichereinheiten (Registern) ähneln Assembly-Sprachen Aufbau Code BefehlWirkung 1Wirkung 2LOAD ic0:=c(i)b:=b+1CLOAD ic0:=ib:=b+1STORE ic(i):=c0b:=b+1ADD ic0:=c0+c(i)b:=b+1CADD ic0:=c0+ib:=b+1SUB ic0:=max(c0−c(i),0)b:=b+1CSUB ic0:=max(c0−i,0)b:=b+1MUL ic0:=c0*c(i)b:=b+1CMUL ic0:=..."/><meta property="twitter:domain" content="quartz.jzhao.xyz"/><meta property="og:url" content="https://quartz.jzhao.xyz/Theoretische-Informatik/Registermaschinen"/><meta property="twitter:url" content="https://quartz.jzhao.xyz/Theoretische-Informatik/Registermaschinen"/><link rel="icon" href="../static/icon.png"/><meta name="description" content="sind Automaten mit Speichereinheiten (Registern) ähneln Assembly-Sprachen Aufbau Code BefehlWirkung 1Wirkung 2LOAD ic0:=c(i)b:=b+1CLOAD ic0:=ib:=b+1STORE ic(i):=c0b:=b+1ADD ic0:=c0+c(i)b:=b+1CADD ic0:=c0+ib:=b+1SUB ic0:=max(c0−c(i),0)b:=b+1CSUB ic0:=max(c0−i,0)b:=b+1MUL ic0:=c0*c(i)b:=b+1CMUL ic0:=..."/><meta name="generator" content="Quartz"/><link href="../index.css" rel="stylesheet" type="text/css" spa-preserve/><style>.expand-button {
   position: absolute;
   display: flex;
   float: right;
@@ -116,7 +116,7 @@ pre:hover > .expand-button {
   padding: 0 12px;
   font-size: 14px;
 }
[2 lines of base64/hex data omitted]
 <li>sind Automaten mit Speichereinheiten (Registern)</li>
 <li>ähneln Assembly-Sprachen</li>
 </ul>
@@ -202,32 +202,7 @@ pre:hover > .expand-button {
 
 
 
-
-
-
-
-
-
-
-
-
-
-
-
-
-
-
-
-
-
-
-
-
-
-
-
-
-<div class="table-container"><table><thead><tr><th>Befehl</th><th>Wirkung 1</th><th>Wirkung 2</th></tr></thead><tbody><tr><td>LOAD i</td><td>c0:=c(i)</td><td>b:=b+1</td></tr><tr><td>CLOAD i</td><td>c0:=i</td><td>b:=b+1</td></tr><tr><td>INDLOAD i</td><td>c0:=c(c(i))</td><td>b:=b+1</td></tr><tr><td>STORE i</td><td>c(i):=c0</td><td>b:=b+1</td></tr><tr><td>INDSTORE i</td><td>c(c(i)):=c0</td><td>b:=b+1</td></tr><tr><td>ADD i</td><td>c0:=c0+c(i)</td><td>b:=b+1</td></tr><tr><td>CADD i</td><td>c0:=c0+i</td><td>b:=b+1</td></tr><tr><td>INDADD i</td><td>c0:=c0+c(c(i))</td><td>b:=b+1</td></tr><tr><td>SUB i</td><td>c0:=max(c0−c(i),0)</td><td>b:=b+1</td></tr><tr><td>CSUB i</td><td>c0:=max(c0−i,0)</td><td>b:=b+1</td></tr><tr><td>INDSUB i</td><td>c0:=max(c0−c(c(i)),0)</td><td>b:=b+1</td></tr><tr><td>MUL i</td><td>c0:=c0*c(i)</td><td>b:=b+1</td></tr><tr><td>CMUL i</td><td>c0:=c0*i</td><td>b:=b+1</td></tr><tr><td>INDMUL i</td><td>c0:=c0*c(c(i))</td><td>b:=b+1</td></tr><tr><td>DIV i</td><td>c0:=⌊c0/c(i)⌋</td><td>b:=b+1</td></tr><tr><td>CDIV i</td><td>c0:=⌊c0/i⌋</td><td>b:=b+1</td></tr><tr><td>GOTO i</td><td></td><td>b:=i</td></tr><tr><td>IF c0 == 0 GOTO i</td><td></td><td>b:=i falls Bedingung wahr,  <br/>b:=b+1 sonst.</td></tr><tr><td>END</td><td></td><td>b:=b</td></tr></tbody></table></div>
+<div class="table-container"><table><thead><tr><th>Befehl</th><th>Wirkung 1</th><th>Wirkung 2</th></tr></thead><tbody><tr><td>LOAD i</td><td>c0:=c(i)</td><td>b:=b+1</td></tr><tr><td>CLOAD i</td><td>c0:=i</td><td>b:=b+1</td></tr><tr><td>STORE i</td><td>c(i):=c0</td><td>b:=b+1</td></tr><tr><td>ADD i</td><td>c0:=c0+c(i)</td><td>b:=b+1</td></tr><tr><td>CADD i</td><td>c0:=c0+i</td><td>b:=b+1</td></tr><tr><td>SUB i</td><td>c0:=max(c0−c(i),0)</td><td>b:=b+1</td></tr><tr><td>CSUB i</td><td>c0:=max(c0−i,0)</td><td>b:=b+1</td></tr><tr><td>MUL i</td><td>c0:=c0*c(i)</td><td>b:=b+1</td></tr><tr><td>CMUL i</td><td>c0:=c0*i</td><td>b:=b+1</td></tr><tr><td>DIV i</td><td>c0:=⌊c0/c(i)⌋</td><td>b:=b+1</td></tr><tr><td>CDIV i</td><td>c0:=⌊c0/i⌋</td><td>b:=b+1</td></tr><tr><td>GOTO i</td><td></td><td>b:=i</td></tr><tr><td>IF c0 == 0 GOTO i</td><td></td><td>b:=i falls Bedingung wahr,  <br/>b:=b+1 sonst.</td></tr><tr><td>END</td><td></td><td>b:=b</td></tr></tbody></table></div>
 <hr/>
 <h3 id="register">Register<a role="anchor" aria-hidden="true" tabindex="-1" data-no-popover="true" href="#register" class="internal"><svg width="18" height="18" viewBox="0 0 24 24" fill="none" stroke="currentColor" stroke-width="2" stroke-linecap="round" stroke-linejoin="round"><path d="M10 13a5 5 0 0 0 7.54.54l3-3a5 5 0 0 0-7.07-7.07l-1.72 1.71"></path><path d="M14 11a5 5 0 0 0-7.54-.54l-3 3a5 5 0 0 0 7.07 7.07l1.71-1.71"></path></svg></a></h3>
 <pre><code>Jede Registermaschine besitzt eine beliebig große,
